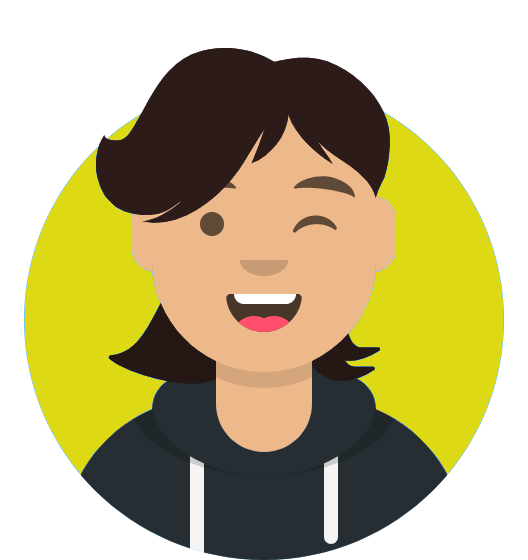
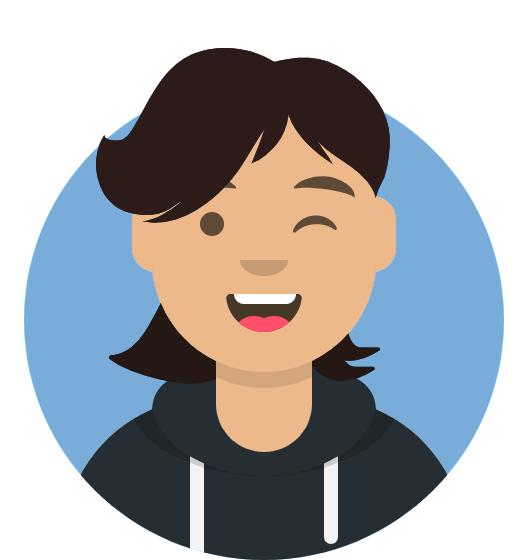
50%

Changed region(s): [[0.6667, 0.2125, 0.9697, 0.85], [0.0303, 0.2732, 0.303, 0.85], [0.2121, 0.2125, 0.2727, 0.2732]]

diff --git a/pages/index.vue b/pages/index.vue
@@ -3,7 +3,7 @@
     <section class="max-w-[1344px] px-[100px] w-full pt-[40px] flex flex-col justify-center items-center">
       <div class="flex flex-col justify-center items-center py-10 mt-10">
         <div class="flex flex-col justify-start items-start">
-          <div class="font-bold text-[#ddda15] text-[30px] pl-[4px]">Hi, my name is</div>
+          <div class="font-bold text-[#79ACD9] text-[30px] pl-[4px]">Hi, my name is</div>
           <div class="text-[48px] font-bold text-[#141C3A]">Lê Thanh Tùng</div>
           <div class="text-[48px] font-bold text-[#141C3A] mb-6">I'm Frontend & Backend Developer</div>
           <div class="mb-6 text-[1.5rem] leadding-[1.5]">I code beautifully simple things, and I love what I do.</div>
@@ -14,13 +14,60 @@
         <img src="/images/pick3.svg" alt="">
       </div>
     </section>
-    <section class="bg-[#ddda15] w-full flex flex-col justify-center items-center pt-40 pb-72 px-20">
+    <section class="bg-[#79ACD9] w-full flex flex-col justify-center items-center pt-40 pb-72 px-20 text-white">
       <div class="w-[60%] flex items-center justify-center flex-col">
-        <div class="font-bold text-[30px] mb-10">Hi, I’m Tùng. Nice to meet you.</div>
-        <h2 class="break-words leading-6 font-bold">I enjoy creating things that live on the internet. My interest in web development started back in 2022 when I took a course on website design. 
-          I'm quietly confident, naturally curious, and perpetually working on improving my chops one develop problem at a time
+        <div class="font-bold text-[35px] mb-10">Hi, I’m Tùng. Nice to meet you.</div>
+        <h2 style="word-break: break-word;" class="break-words leading-6  px-8 text-center mb-10">I’m a software engineer specializing in building exceptional digital experiences. I enjoy creating things that live on the internet. My interest in web development started back in 2022 when I took a course on website design. 
+          I'm quietly confident, naturally curious, and perpetually working on improving my chops one develop problem at a time.
         </h2>
-        <div>Here are some of the roles I've held</div>
+      </div>
+    </section>
+    <section class="w-full flex flex-col justify-center items-center mt-[-18rem] mb-12">
+      <div class="max-w-[1000px] grid grid-cols-2 w-full rounded-3xl overflow-hidden border-[1px]">
+        <div class=" bg-white w-full flex flex-col items-center justify-start border-r-[1px]">
+          <div class="my-20 flex flex-col items-center justify-start">
+            <div class="flex items-center justify-center pt-10 pb-4 mt-8">
+              <div class="text-white rounded-[50%] bg-[#79ACD9] w-[80px] h-[80px] flex justify-center items-center text-[50px]"><i class="ri-computer-line"></i></div>
+            </div>
+            <div class="font-bold pb-5 text-[24px]">
+              Frontend Developer
+            </div>
+            <div class="text-center px-10 h-20">Builds the front-end portion of websites and web applications—the part users see and interact with.</div>
+            <div class="pt-7 pb-4 text-[20px] text-[#79ACD9]">Skill</div>
+            <div class="grid grid-cols-4 gap-4 mt-8 ">
+              <div class="hover:scale-110 w-[64px] h-[64px] text-[64px] flex items-center text-orange-600" title="HTML"><i class="ri-html5-fill"></i></div>
+              <div class="hover:scale-110 w-[64px] h-[64px]"><img class="w-[64px] h-[64px]" title="CSS" src="/images/skill/css.svg"></div>
+              <div class="hover:scale-110 w-[64px] h-[64px]"><img class="w-[64px] h-[64px]" title="Javascript" src="/images/skill/javascript.svg" alt=""></div>
+              <div class="hover:scale-110 w-[64px] h-[64px]"><img class="w-[64px] h-[64px]" title="Vuejs" src="/images/skill/vuejs.svg" alt=""></div>
+              <div class="hover:scale-110 w-[64px] h-[64px]"><img title="NuxtJs" src="/images/skill/nuxt.svg"></div>
+              <div class="hover:scale-110 w-[64px] h-[64px]"><img title="Tailwindcss" src="/images/skill/tailwindcss.svg"></div>
+            </div>
+          </div>
+        </div>
+
+        <div class=" bg-white w-full flex flex-col items-center justify-start">
+          <div class="my-20 flex flex-col items-center justify-start">
+            <div class="flex items-center justify-center pt-10 pb-4 mt-8">
+              <div class="text-white rounded-[50%] bg-[#79ACD9] w-[80px] h-[80px] flex justify-center items-center text-[50px]"><i class="ri-server-line"></i></div>
+            </div>
+            <div class="font-bold pb-5 text-[24px]">
+              Backend Developer
+            </div>
+            <div class="text-center px-10 h-20">Creates code that does relational mapping to retrieve data from a database</div>
+            <div class="pt-7 pb-4 text-[18px] text-[#79ACD9] font-bold">Skill</div>
+            <div class="grid grid-cols-4 gap-4 mt-8 ">
+              <div class="hover:scale-110"><img title="Nodejs" src="/images/skill/nodejs-icon.svg" alt=""></div>
+              <div class="hover:scale-110 "><img title="Expressjs" src="/images/skill/expressjs.svg" alt=""></div>
+              <div class="hover:scale-110 "><img title="Nestjs" src="/images/skill/nestjs.svg" alt=""></div>
+              <div class="hover:scale-110 "><img title="Mongodb" src="/images/skill/mongodb.svg" alt=""></div>
+              <div class="hover:scale-110 "><img title="Redis" src="/images/skill/redis.svg" alt=""></div>
+              <div class="hover:scale-110 "><img title="Socketio" src="/images/skill/socketio.svg" alt=""></div>
+              <div class="hover:scale-110 w-16 h-16"><img title="MikroORM" src="/images/skill/mikroorm.png" alt=""></div>
+              <div class="hover:scale-110 "><img title="Neo4j" src="/images/skill/neo4j.svg" alt=""></div>
+            </div>
+          </div>
+        </div>
+
       </div>
     </section>
   </div>

diff --git a/layouts/default.vue b/layouts/default.vue
@@ -5,10 +5,10 @@
         <img class="h-[80px]" src="/images/logo.png" alt="">
       </div>
       <div class="flex space-x-10 px-10 text-[18px]">
-        <div class="cursor-pointer hover:text-[#ddda15]">About</div>
-        <div class="cursor-pointer hover:text-[#ddda15]">Experience</div>
-        <div class="cursor-pointer hover:text-[#ddda15]">Work</div>
-        <div class="cursor-pointer hover:text-[#ddda15]">Contact</div>
+        <div class="cursor-pointer hover:text-[#79ACD9]">About</div>
+        <div class="cursor-pointer hover:text-[#79ACD9]">Experience</div>
+        <div class="cursor-pointer hover:text-[#79ACD9]">Work</div>
+        <div class="cursor-pointer hover:text-[#79ACD9]">Contact</div>
       </div>
     </div>
   </div>

diff --git a/nuxt.config.ts b/nuxt.config.ts
@@ -16,6 +16,9 @@ export default defineNuxtConfig({
         },
         {
           href:"https://fonts.googleapis.com/css2?family=Fira+Code&display=swap", rel:"stylesheet"
+        },
+        {
+          href:"https://cdn.jsdelivr.net/npm/remixicon@2.5.0/fonts/remixicon.css", rel:"stylesheet"
         }
       ]
     }
